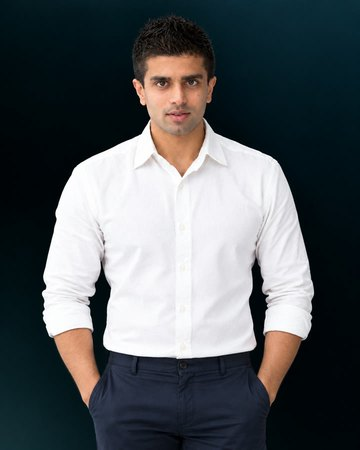
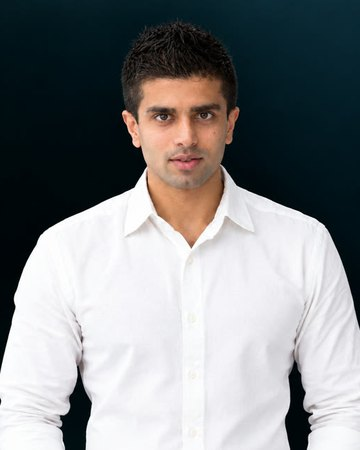
Zoom Arpan's portrait to match Oliver's and update his title
Arpan is now AI Consultant & Lead Trainer; card headers top-aligned.

Claude-Session: https://claude.ai/code/session_01TCU2xBfjpePQQH4aexWAGW

diff --git a/design-system/index.html b/design-system/index.html
@@ -190,9 +190,9 @@
 <h2 style="position:absolute; left:108px; top:146px; width:1704px; font-size:48px; font-weight:560; color:#0C1B24; font-family:'Fraunces', Georgia, serif; line-height:1.15; letter-spacing:-0.5px; text-wrap:balance">The people who <span style="font-style:italic; font-weight:480">deliver the training</span></h2>
 <p style="position:absolute; left:108px; top:222px; width:1600px; font-size:27px; font-weight:600; color:#0B7F74; line-height:1.35">Both run AI and automation work for clients, so every session uses real examples.</p>
 <div style="position:absolute; left:108px; top:296px; width:440px; height:600px; display:flex; flex-direction:column; padding:28px 28px; background:#FFFFFF; border:1.5px solid #DEDFD4; border-radius:18px">
-<div style="height:140px; display:flex; gap:20px; align-items:center">
+<div style="height:140px; display:flex; gap:20px; align-items:flex-start">
 <img src="oliver.jpg" alt="Oliver Ramirez" style="width:112px; height:140px; flex:none; object-fit:cover; border-radius:15px; border:1.5px solid #DEDFD4">
-<div style="display:flex; flex-direction:column; gap:6px; min-width:0">
+<div style="display:flex; flex-direction:column; gap:6px; min-width:0; padding-top:12px">
 <p style="font-size:17px; font-weight:500; color:#0B7F74; font-family:'IBM Plex Mono', ui-monospace, monospace; letter-spacing:.16em; text-transform:uppercase">Operations and AI</p>
 <p style="font-size:32px; font-weight:560; color:#0C1B24; font-family:'Fraunces', Georgia, serif; line-height:1.1">Oliver Ramirez</p>
 <p style="font-size:20px; color:#46606D; line-height:1.35">Founder and CEO</p></div></div>
@@ -200,12 +200,12 @@
 <div style="height:86px; display:flex; align-items:center; border-top:none"><p style="font-size:22px; color:#0C1B24; line-height:1.4">11+ years across Amazon Prime Video, Henkel and DeltaOps</p></div><div style="height:86px; display:flex; align-items:center; border-top:1.5px solid #DEDFD4"><p style="font-size:22px; color:#0C1B24; line-height:1.4">100+ workflows redesigned</p></div><div style="height:86px; display:flex; align-items:center; border-top:1.5px solid #DEDFD4"><p style="font-size:22px; color:#0C1B24; line-height:1.4">Led automation programmes saving 5,000+ hours a year</p></div><div style="height:86px; display:flex; align-items:center; border-top:1.5px solid #DEDFD4"><p style="font-size:22px; color:#0C1B24; line-height:1.4">Google AI and Anthropic certified</p></div>
 </div>
 <div style="position:absolute; left:572px; top:296px; width:440px; height:600px; display:flex; flex-direction:column; padding:28px 28px; background:#FFFFFF; border:1.5px solid #DEDFD4; border-radius:18px">
-<div style="height:140px; display:flex; gap:20px; align-items:center">
+<div style="height:140px; display:flex; gap:20px; align-items:flex-start">
 <img src="arpan.jpg" alt="Arpan Bakshi" style="width:112px; height:140px; flex:none; object-fit:cover; border-radius:15px; border:1.5px solid #DEDFD4">
-<div style="display:flex; flex-direction:column; gap:6px; min-width:0">
+<div style="display:flex; flex-direction:column; gap:6px; min-width:0; padding-top:12px">
 <p style="font-size:17px; font-weight:500; color:#0B7F74; font-family:'IBM Plex Mono', ui-monospace, monospace; letter-spacing:.16em; text-transform:uppercase">Architecture and AI</p>
 <p style="font-size:32px; font-weight:560; color:#0C1B24; font-family:'Fraunces', Georgia, serif; line-height:1.1">Arpan Bakshi</p>
-<p style="font-size:20px; color:#46606D; line-height:1.35">AI Consultant</p></div></div>
+<p style="font-size:20px; color:#46606D; line-height:1.35">AI Consultant &amp; Lead Trainer</p></div></div>
 <div style="height:1.5px; background:#DEDFD4; margin:24px 0 6px"></div>
 <div style="height:86px; display:flex; align-items:center; border-top:none"><p style="font-size:22px; color:#0C1B24; line-height:1.4">Former co-founder of an AI training firm</p></div><div style="height:86px; display:flex; align-items:center; border-top:1.5px solid #DEDFD4"><p style="font-size:22px; color:#0C1B24; line-height:1.4">Former team lead at Foster + Partners</p></div><div style="height:86px; display:flex; align-items:center; border-top:1.5px solid #DEDFD4"><p style="font-size:22px; color:#0C1B24; line-height:1.4">Sustainable design, energy modelling and computational design</p></div><div style="height:86px; display:flex; align-items:center; border-top:1.5px solid #DEDFD4"><p style="font-size:22px; color:#0C1B24; line-height:1.4">Anthropic certified</p></div>
 </div>
